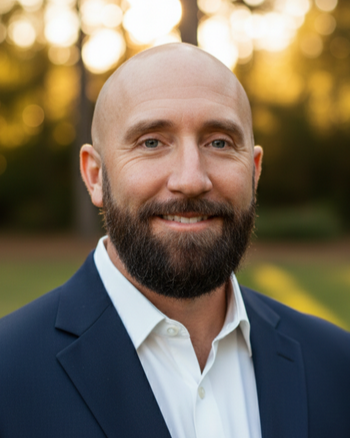
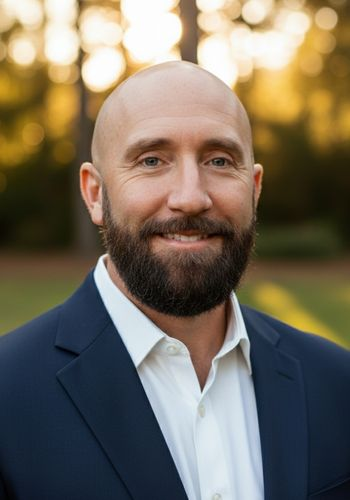
Fix leadership portraits edge-to-edge

diff --git a/src/app/globals.css b/src/app/globals.css
@@ -277,13 +277,11 @@ a {
 }
 
 .leadership-card-image {
-  background:
-    radial-gradient(circle at 50% 8%, rgba(97, 192, 215, 0.12), transparent 42%),
-    rgba(8, 25, 35, 0.48);
+  background: rgba(8, 25, 35, 0.48);
 }
 
 .leadership-card-image img {
-  object-position: 50% 50%;
+  object-position: 50% 18%;
 }
 
 .leadership-card-copy {
@@ -301,19 +299,19 @@ a {
   }
 
   .leadership-card-image {
-    height: clamp(315px, 20vw, 365px) !important;
+    height: clamp(365px, 23vw, 430px) !important;
     aspect-ratio: auto;
   }
 
   .leadership-card-image img {
-    object-fit: contain !important;
-    object-position: 50% 50% !important;
+    object-fit: cover !important;
+    object-position: 50% 18% !important;
   }
 
   .leadership-card-copy {
-    min-height: 104px;
+    min-height: 96px;
     align-items: flex-start;
-    padding: 0.85rem 1.2rem 0.95rem;
+    padding: 0.75rem 1.1rem 0.85rem;
   }
 
   .leadership-card-copy .eyebrow {
